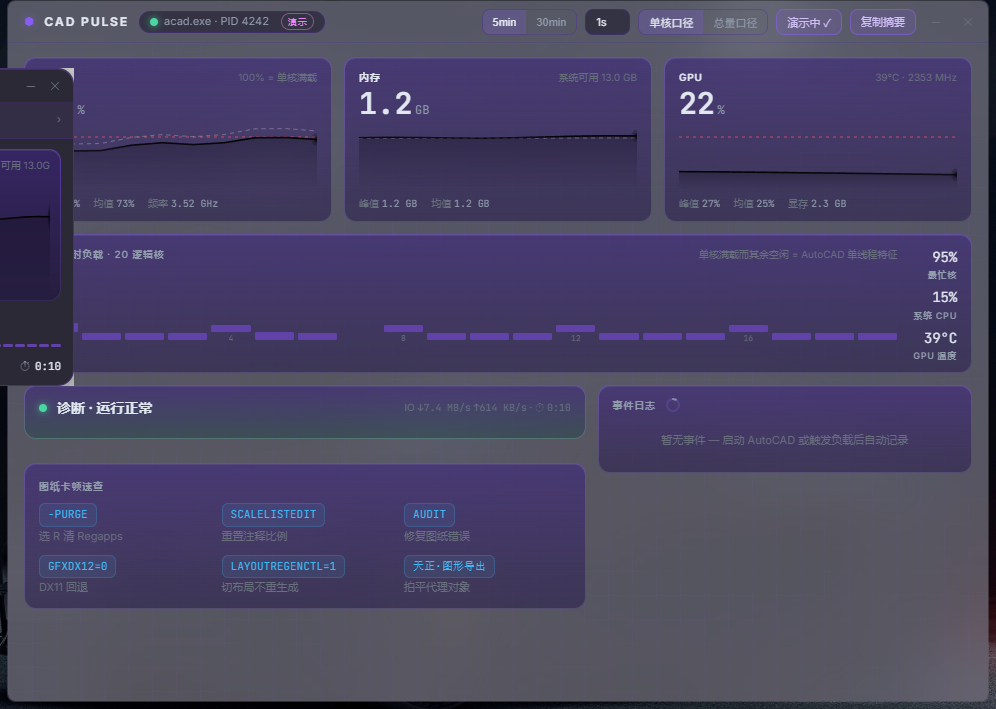
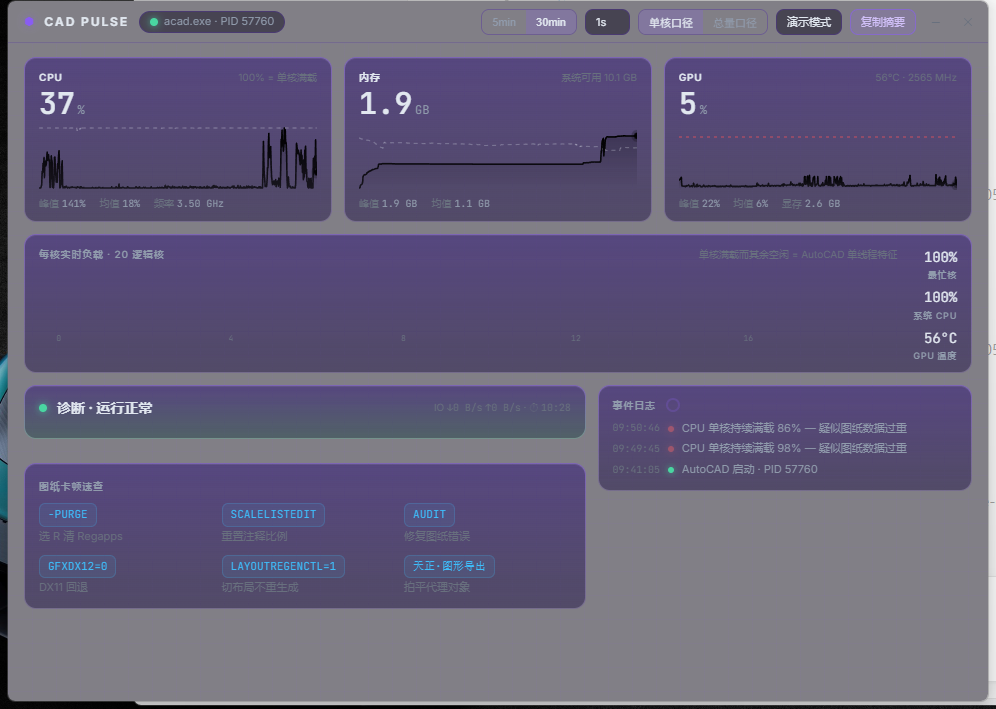
fix(v0.1.1): rounded corners, discoverable dashboard, dual CPU scale
- DWM round-corner clip (DWMWCP_ROUND) removes the square corner layer
  that acrylic drew behind the rounded CSS surface
- HUD titlebar: explicit dashboard button; first launch auto-opens the
  dashboard once so the full feature set is discoverable
- HUD CPU card shows single-core scale + total scale together;
  dashboard CPU footer shows the other scale; cores label now '20 核'
- README: operations table (where the tray lives, ^ overflow note,
  how to open the panel / fold / hide the HUD)

diff --git a/src/screens/Hud.tsx b/src/screens/Hud.tsx
@@ -13,6 +13,7 @@ import Ring from "../components/Ring";
 const win = getCurrentWebviewWindow();
 const EXPANDED = { w: 310, h: 318 };
 const COLLAPSED = { w: 150, h: 46 };
+const SEEN_KEY = "cadpulse-seen-dashboard";
 
 export default function Hud() {
   const { latest, history } = useStats();
@@ -23,6 +24,19 @@ export default function Hud() {
     const { w, h } = collapsed ? COLLAPSED : EXPANDED;
     win.setSize(new LogicalSize(w, h)).catch(() => {});
   }, [collapsed]);
+
+  // First launch ever: open the dashboard once so the full feature set is
+  // discoverable (the HUD alone undersells it).
+  useEffect(() => {
+    try {
+      if (!localStorage.getItem(SEEN_KEY)) {
+        localStorage.setItem(SEEN_KEY, "1");
+        invoke("open_dashboard").catch(() => {});
+      }
+    } catch {
+      /* storage unavailable */
+    }
+  }, []);
 
   const diag = useMemo(() => diagnose(history), [history]);
   const cpuData = useMemo(() => series(history, (s) => s.cpu_single_pct, 60), [history]);
@@ -81,6 +95,13 @@ export default function Hud() {
           <span className="hud-title">CAD Pulse</span>
           {latest.demo && <span className="badge-demo">演示</span>}
           <div style={{ marginLeft: "auto" }} data-tauri-drag-region>
+            <button
+              className="icon-btn"
+              title="打开详情面板（托盘左键同效）"
+              onClick={() => invoke("open_dashboard")}
+            >
+              ▣
+            </button>
             <button className="icon-btn" title="折叠" onClick={() => setCollapsed(true)}>
               ─
             </button>
@@ -100,7 +121,7 @@ export default function Hud() {
           <>
             <div className="hud-cards">
               <MetricCard
-                label="CPU"
+                label="CPU 单核"
                 value={fmtPct(latest.cpu_single_pct)}
                 animValue={latest.cpu_single_pct}
                 format={(v) => fmtPct(v)}
@@ -108,7 +129,7 @@ export default function Hud() {
                 color="var(--cpu)"
                 data={cpuData}
                 max={100}
-                sub={`峰 ${fmtPct(cpuPeak)}%`}
+                sub={`总量 ${fmtPct(latest.cpu_total_pct)}% · 峰 ${fmtPct(cpuPeak)}%`}
                 autoSpark
               />
               <MetricCard
@@ -126,7 +147,7 @@ export default function Hud() {
             </div>
 
             <div className="cores-strip">
-              <span className="label" style={{ flex: "none" }}>CORES</span>
+              <span className="label" style={{ flex: "none" }}>{latest.cores.length} 核</span>
               <CoreBars cores={latest.cores} height={30} gap={2} />
             </div>
 

diff --git a/src/screens/Dashboard.tsx b/src/screens/Dashboard.tsx
@@ -150,6 +150,7 @@ export default function Dashboard() {
               secondary={scale === "single" ? { data: coreData, max: 100 } : undefined}
               footer={
                 <div className="card-stats">
+                  <span>{scale === "single" ? "总量" : "单核"} <span className="num">{fmtPct(scale === "single" ? latest.cpu_total_pct : latest.cpu_single_pct)}%</span></span>
                   <span>峰值 <span className="num">{fmtPct(cpu5.peak)}%</span></span>
                   <span>均值 <span className="num">{fmtPct(cpu5.avg)}%</span></span>
                   <span>频率 <span className="num">{(latest.cpu_freq_mhz / 1000).toFixed(2)} GHz</span></span>

diff --git a/src-tauri/src/lib.rs b/src-tauri/src/lib.rs
@@ -16,14 +16,47 @@ const GLASS_TINT: (u8, u8, u8, u8) = (22, 15, 46, 170);
 
 fn try_apply_glass(app: &AppHandle) {
     if let Some(w) = app.get_webview_window("hud") {
+        round_window_corners(&w);
         let ok = window_vibrancy::apply_acrylic(&w, Some(GLASS_TINT)).is_ok();
         GLASS_HUD.store(ok, Ordering::Relaxed);
     }
     if let Some(w) = app.get_webview_window("dashboard") {
+        round_window_corners(&w);
         let ok = window_vibrancy::apply_acrylic(&w, Some(GLASS_TINT)).is_ok();
         GLASS_DASH.store(ok, Ordering::Relaxed);
     }
 }
+
+/// Acrylic fills the whole window rect, which would show as square corners
+/// behind the rounded CSS surface. Ask DWM to clip the window itself into a
+/// rounded shape (Windows 11; ignored silently where unsupported).
+#[cfg(windows)]
+fn round_window_corners(window: &tauri::WebviewWindow) {
+    const DWMWA_WINDOW_CORNER_PREFERENCE: u32 = 33;
+    const DWMWCP_ROUND: u32 = 2;
+    #[link(name = "dwmapi")]
+    unsafe extern "system" {
+        fn DwmSetWindowAttribute(
+            hwnd: isize,
+            attr: u32,
+            value: *const core::ffi::c_void,
+            size: u32,
+        ) -> i32;
+    }
+    let Ok(hwnd) = window.hwnd() else { return };
+    let pref: u32 = DWMWCP_ROUND;
+    unsafe {
+        DwmSetWindowAttribute(
+            hwnd.0 as isize,
+            DWMWA_WINDOW_CORNER_PREFERENCE,
+            &pref as *const u32 as *const core::ffi::c_void,
+            std::mem::size_of::<u32>() as u32,
+        );
+    }
+}
+
+#[cfg(not(windows))]
+fn round_window_corners(_window: &tauri::WebviewWindow) {}
 
 #[cfg_attr(mobile, tauri::mobile_entry_point)]
 pub fn run() {

diff --git a/README.md b/README.md
@@ -54,10 +54,20 @@ CAD Pulse 为此而生：
 
 ## 使用
 
-1. 安装后自动出现托盘图标 + 桌面悬浮 HUD
-2. 没开 AutoCAD 时显示"等待"；点 HUD 上的「▶ 试试演示模式」可先体验
-3. 打开 AutoCAD 后自动 1 Hz 采样（面板可调 0.5 / 1 / 2 s）
-4. 卡顿时看诊断行 / 事件日志，按建议清理图纸
+**两个界面**：桌面**悬浮 HUD**（常驻小窗，可折叠/拖动/隐藏）+ **详情面板**（完整数据），首次启动会自动打开面板一次。
+
+| 想做什么 | 操作 |
+|---|---|
+| 打开详情面板 | HUD 标题栏 **▣ 按钮** / 点 HUD 诊断状态行 / **托盘左键** |
+| 托盘在哪 | 任务栏**右下角**（Win11 可能收在 `^` 折叠区，建议拖到任务栏固定）；**悬停**=负载摘要，**右键**=菜单（悬浮窗开关/演示模式/开机自启/退出） |
+| 悬浮窗挡图了 | 拖到角落 / 点 ─ 折叠成迷你条 / 点 ✕ 隐藏（托盘菜单找回） |
+
+监控数据说明：
+
+- **CPU 单核口径**：`100% = 一个核满载`（AutoCAD 2D 主要吃单核，这是判断卡顿的关键口径）；HUD 卡片和面板同时显示**总量口径**（任务管理器口径）对照
+- **N 核条**：全部逻辑核的实时负载——AutoCAD 场景的典型画面是"1 根红条 + 其余空闲"
+- 没开 AutoCAD 时显示"等待"；点 HUD 上的「▶ 试试演示模式」可先体验
+- 打开 AutoCAD 后自动 1 Hz 采样（面板可调 0.5 / 1 / 2 s）
 
 ## 诊断规则
 
